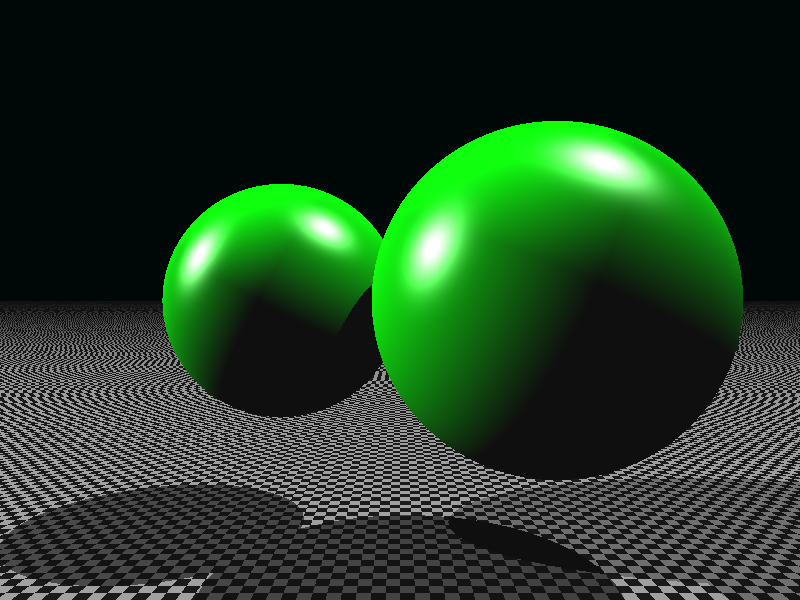
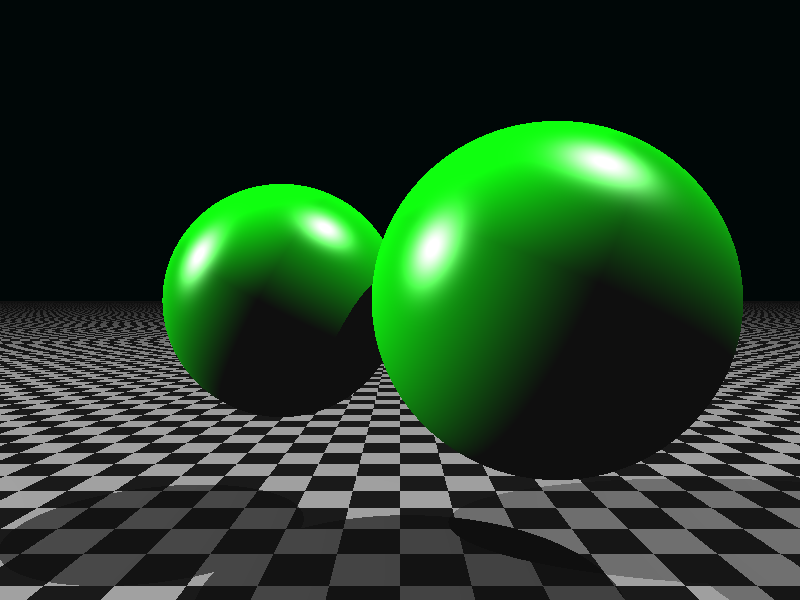
texture scaling

Changed region(s): [[0.0, 0.51, 1.0, 1.0]]

diff --git a/src/main.rs b/src/main.rs
@@ -7,6 +7,7 @@ use light::PointLight;
 use material::Phong;
 use scene::Scene;
 use texture::Checker;
+use texture::Texture;
 
 mod algebra;
 mod camera;
@@ -27,42 +28,26 @@ fn main() {
         Color::new(0.00, 0.03, 0.03),
     );
 
-    scene.add_object(
-        Plane::new(
-            Point3::new(0.0, -10.0, 0.0),
-            Vector3::J,
-            Phong::new(
-                Color::WHITE * 0.03,
-                Checker::new(Color::WHITE * 0.4, Color::WHITE * 0.03),
-                Color::WHITE,
-                20.0,
-            ),
-        )
-    );
-    scene.add_object(
-        Sphere::new(
-            Point3::new(-5.0, 0.0, 5.0),
-            5.0,
-            Phong::new(
-                Color::WHITE * 0.03,
-                Color::GREEN,
-                Color::WHITE,
-                20.0,
-            ),
-        )
-    );
-    scene.add_object(
-        Sphere::new(
-            Point3::new(5.0, 0.0, 0.0),
-            6.0,
-            Phong::new(
-                Color::WHITE * 0.03,
-                Color::GREEN,
-                Color::WHITE,
-                20.0,
-            ),
-        )
-    );
+    scene.add_object(Plane::new(
+        Point3::new(0.0, -10.0, 0.0),
+        Vector3::J,
+        Phong::new(
+            Color::WHITE * 0.03,
+            Texture::new(5.0, Checker::new(Color::WHITE * 0.4, Color::WHITE * 0.03)),
+            Color::WHITE,
+            20.0,
+        ),
+    ));
+    scene.add_object(Sphere::new(
+        Point3::new(-5.0, 0.0, 5.0),
+        5.0,
+        Phong::new(Color::WHITE * 0.03, Color::GREEN, Color::WHITE, 20.0),
+    ));
+    scene.add_object(Sphere::new(
+        Point3::new(5.0, 0.0, 0.0),
+        6.0,
+        Phong::new(Color::WHITE * 0.03, Color::GREEN, Color::WHITE, 20.0),
+    ));
 
     let lights = [
         PointLight::new(

diff --git a/src/texture.rs b/src/texture.rs
@@ -4,7 +4,13 @@ use crate::{
 };
 
 #[derive(Debug, Clone, Copy, PartialEq)]
-pub enum Texture {
+pub struct Texture {
+    scale: f64,
+    data: TextureData,
+}
+
+#[derive(Debug, Clone, Copy, PartialEq)]
+pub enum TextureData {
     Color(Color),
     Checker(Checker),
 }
@@ -27,23 +33,44 @@ impl TextureCoordinate {
 }
 
 impl Texture {
-    pub fn color_at(&self, p: &TextureCoordinate) -> Color {
-        match self {
-            Self::Color(c) => *c,
-            Self::Checker(c) => c.color_at(p),
+    pub fn new(scale: f64, data: impl Into<TextureData>) -> Self {
+        Self { scale, data: data.into() }
+    }
+
+    pub fn color_at(&self, p: &Point2) -> Color {
+        let uv = TextureCoordinate(Point2::new(
+            ((*p).x / self.scale).rem_euclid(1.0),
+            ((*p).y / self.scale).rem_euclid(1.0),
+        ));
+
+        match self.data {
+            TextureData::Color(c) => c,
+            TextureData::Checker(c) => c.color_at(&uv),
         }
     }
 }
 
-impl From<Color> for Texture {
+impl From<Color> for TextureData {
     fn from(c: Color) -> Self {
         Self::Color(c)
     }
 }
 
-impl From<Checker> for Texture {
+impl From<Checker> for TextureData {
     fn from(c: Checker) -> Self {
         Self::Checker(c)
+    }
+}
+
+impl From<Color> for Texture {
+    fn from(c: Color) -> Self {
+        Self::new(1.0, TextureData::Color(c))
+    }
+}
+
+impl From<Checker> for Texture {
+    fn from(c: Checker) -> Self {
+        Self::new(1.0, TextureData::Checker(c))
     }
 }
 
@@ -60,7 +87,7 @@ impl Checker {
 
     pub fn color_at(&self, p: &TextureCoordinate) -> Color {
         if (p.u() < 0.5) ^ (p.v() < 0.5) {
-            return self.primary
+            return self.primary;
         }
 
         self.secondary

diff --git a/src/geometry/polygon.rs b/src/geometry/polygon.rs
@@ -1,0 +1,66 @@
+use std::convert::TryFrom;
+
+use crate::algebra::{Point3, Ray, Vector3};
+
+use super::{Intersect, Intersection};
+
+#[derive(Default, Debug, Clone, Copy, PartialEq)]
+pub struct Vertex {
+    pub point: Point3,
+    pub normal: Vector3,
+}
+
+impl Vertex {
+    pub fn new(point: Point3, normal: Vector3) -> Self {
+        Self { point, normal }
+    }
+}
+
+#[derive(Debug, Clone, PartialEq)]
+pub struct Face {
+    pub vertices: Vec<Vertex>,
+    pub normal: Vector3,
+}
+
+impl TryFrom<Vec<Vertex>> for Face {
+    type Error = String;
+
+    fn try_from(vertices: Vec<Vertex>) -> Result<Self, Self::Error> {
+        if vertices.len() < 3 {
+            return Err("Not enough vertices".to_string());
+        }
+
+        let a = vertices[0].point;
+        let b = vertices[1].point;
+        let c = vertices[2].point;
+
+        Ok(Self {
+            vertices,
+            normal: (a - b).cross(&(c - b)).normalize(),
+        })
+    }
+}
+
+impl Intersect for Face {
+    fn intersect(&self, ray: &Ray) -> Option<Intersection> {
+        todo!()
+    }
+}
+
+#[derive(Debug, Clone, PartialEq)]
+pub struct Mesh {
+    pub faces: Vec<Face>,
+}
+
+impl From<Vec<Face>> for Mesh {
+    fn from(faces: Vec<Face>) -> Self {
+        Self { faces }
+    }
+}
+
+impl Intersect for Mesh {
+    fn intersect(&self, ray: &Ray) -> Option<Intersection> {
+        todo!()
+    }
+}
+

diff --git a/src/geometry/plane.rs b/src/geometry/plane.rs
@@ -1,9 +1,9 @@
 use crate::algebra::EPSILON;
+use crate::algebra::Point2;
 use crate::algebra::Point3;
 use crate::algebra::Vector3;
 use crate::algebra::Ray;
 use crate::material::Phong;
-use crate::texture::TextureCoordinate;
 
 use super::Intersect;
 use super::Intersection;
@@ -42,7 +42,7 @@ impl Intersect for Plane {
 }
 
 impl Textured for Plane {
-    fn to_uv(&self, p: &Point3) -> TextureCoordinate {
+    fn to_texture_space(&self, p: &Point3) -> Point2 {
         let mut candidate = self.normal.cross(&Vector3::K);
         if candidate.magnitude() < EPSILON {
             candidate = self.normal.cross(&(-Vector3::J));
@@ -51,9 +51,9 @@ impl Textured for Plane {
         let v_hat = u_hat.cross(&self.normal);
         let l = *p - self.origin;
 
-        TextureCoordinate::new(
-            l.dot(&u_hat).rem_euclid(1.0),
-            l.dot(&v_hat).rem_euclid(1.0)
+        Point2::new(
+            l.dot(&u_hat),
+            l.dot(&v_hat),
         )
     }
 }

diff --git a/src/geometry/shape.rs b/src/geometry/shape.rs
@@ -1,9 +1,8 @@
 use std::cmp::Ordering;
 
-use crate::algebra::Ray;
+use crate::algebra::{Point2, Ray};
 use crate::algebra::{Point3, Vector3};
 use crate::material::Phong;
-use crate::texture::TextureCoordinate;
 
 use super::Sphere;
 use super::Plane;
@@ -19,7 +18,7 @@ pub trait Intersect {
 }
 
 pub trait Textured {
-    fn to_uv(&self, p: &Point3) -> TextureCoordinate;
+    fn to_texture_space(&self, p: &Point3) -> Point2;
 }
 
 impl Geometry {
@@ -41,10 +40,10 @@ impl Intersect for Geometry {
 }
 
 impl Textured for Geometry {
-    fn to_uv(&self, p: &Point3) -> TextureCoordinate {
+    fn to_texture_space(&self, p: &Point3) -> Point2 {
         match self {
-            Self::Sphere(x) => x.to_uv(p),
-            Self::Plane(x) => x.to_uv(p),
+            Self::Sphere(x) => x.to_texture_space(p),
+            Self::Plane(x) => x.to_texture_space(p),
         }
     }
 }

diff --git a/src/geometry/sphere.rs b/src/geometry/sphere.rs
@@ -1,4 +1,4 @@
-use crate::algebra::{Point3, Ray, Vector3};
+use crate::algebra::{Point2, Point3, Ray, Vector3};
 use crate::material::Phong;
 use crate::texture::TextureCoordinate;
 
@@ -72,8 +72,8 @@ impl Intersect for Sphere {
 }
 
 impl Textured for Sphere {
-    fn to_uv(&self, p: &Point3) -> TextureCoordinate {
-        TextureCoordinate::default()
+    fn to_texture_space(&self, p: &Point3) -> Point2 {
+        Point2::default()
     }
 }
 

diff --git a/src/algebra/point2.rs b/src/algebra/point2.rs
@@ -1,3 +1,5 @@
+use std::ops::{Add, Mul, Neg, Sub, Div};
+
 #[derive(Default, Debug, Clone, Copy, PartialEq)]
 pub struct Point2 {
     pub x: f64,
@@ -7,5 +9,13 @@ pub struct Point2 {
 impl Point2 {
     pub fn new(x: f64, y: f64) -> Self {
         Self { x, y }
+    }
+}
+
+impl Div<f64> for Point2 {
+    type Output = Self;
+
+    fn div(self, rhs: f64) -> Self::Output {
+        Self::new(self.x / rhs, self.y / rhs)
     }
 }

diff --git a/src/scene.rs b/src/scene.rs
@@ -79,7 +79,7 @@ impl Scene {
                 .iter()
                 .map(|light| {
                     let material = obj.material();
-                    let uv = obj.to_uv(&intersect_point);
+                    let uv = obj.to_texture_space(&intersect_point);
 
                     let ka = material.ambient.color_at(&uv);
                     let kd = material.diffuse.color_at(&uv);

diff --git a/src/geometry/mod.rs b/src/geometry/mod.rs
@@ -8,3 +8,4 @@ pub use shape::Textured;
 mod sphere;
 mod plane;
 mod shape;
+mod polygon;
